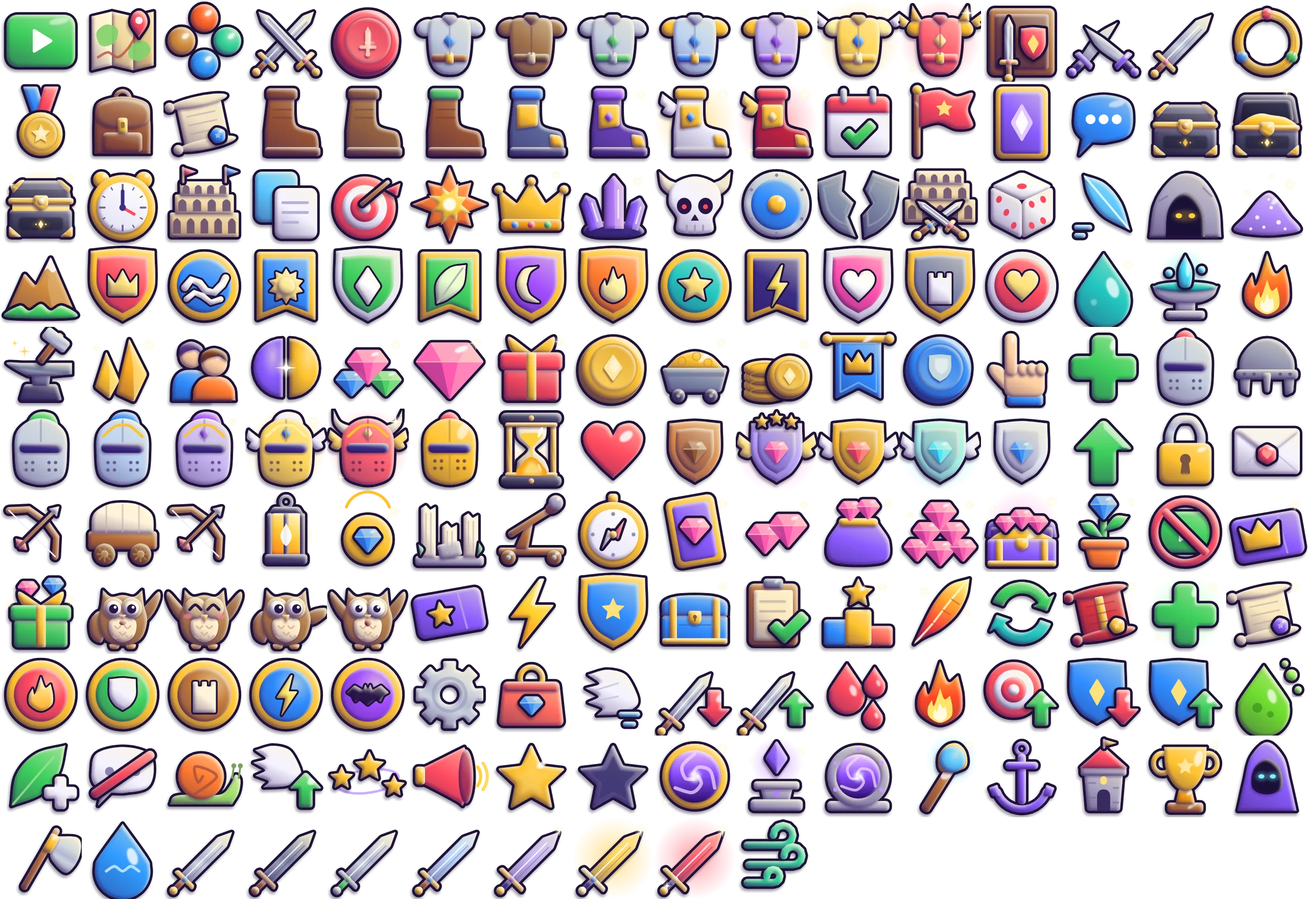
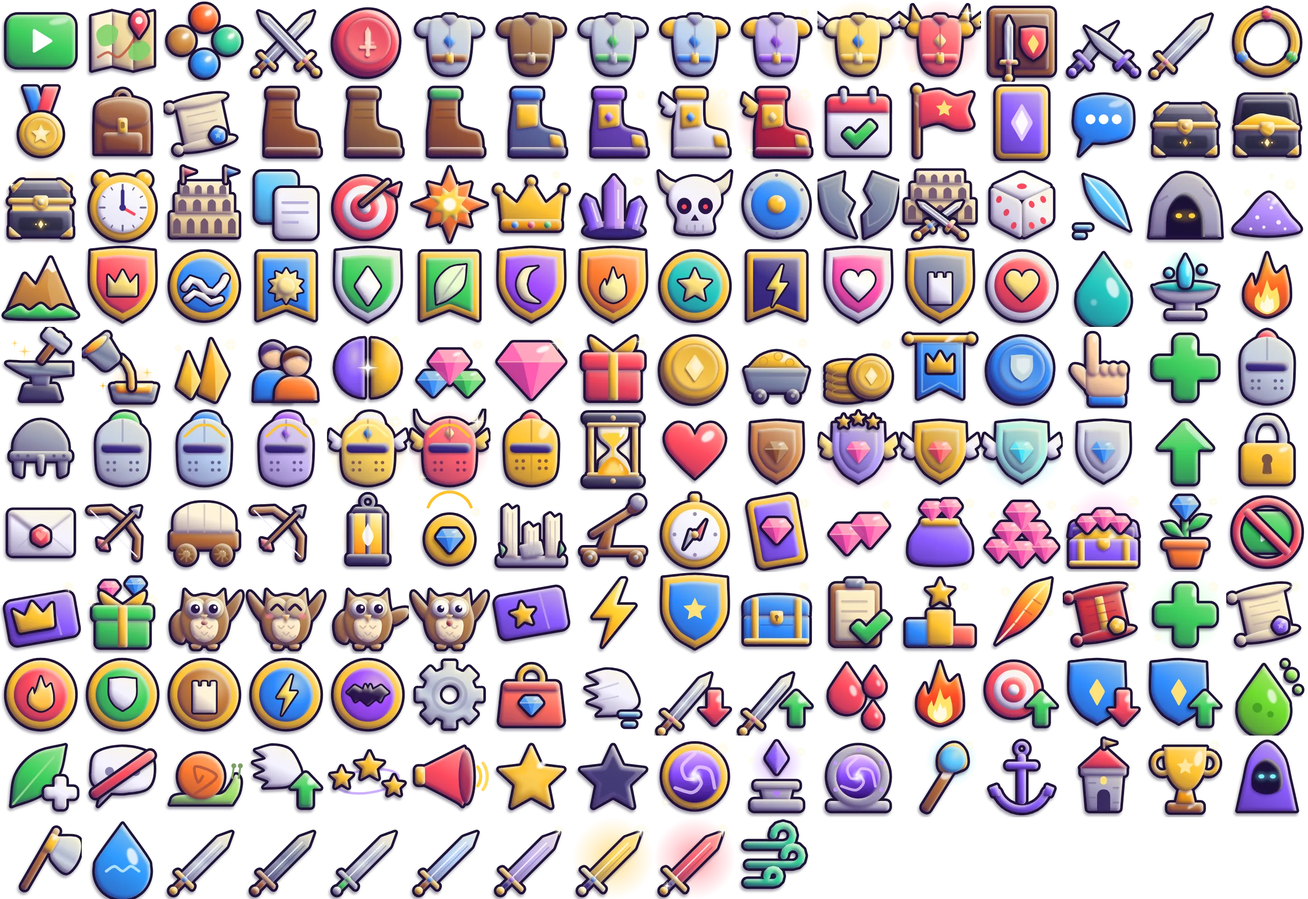
Le recyclage devient la Fonderie : nouveau signe (un creuset verse du métal en fusion dans un moule), « Fondre »
Claude-Session: https://claude.ai/code/session_01StTiAZjvnzYLiVPjaUWZHe

Changed region(s): [[0.0, 0.3438, 1.0, 0.75]]

diff --git a/src/game/icons-meta.ts b/src/game/icons-meta.ts
@@ -4,4 +4,4 @@
 export const ICON_COLS = 16;
 export const ICON_ROWS = 11;
 export const ICON_CELL = 160;
-export const ICON_INDEX: Readonly<Record<string, number>> = {"ad":0,"adventure":1,"allElements":2,"arena":3,"arenaTokens":4,"armor":5,"armor-0":6,"armor-1":7,"armor-2":8,"armor-3":9,"armor-4":10,"armor-5":11,"armory":12,"assassin":13,"atk":14,"avatarFrame":15,"badge":16,"bag":17,"basicScrolls":18,"boots":19,"boots-0":20,"boots-1":21,"boots-2":22,"boots-3":23,"boots-4":24,"boots-5":25,"calendar":26,"campaign":27,"cardBack":28,"chat":29,"chestClosed":30,"chestOpen":31,"chestReady":32,"clock":33,"colisee":34,"copy":35,"crit":36,"critDmg":37,"crown":38,"crystals":39,"dailyBoss":40,"def":41,"defeat":42,"defense":43,"dice":44,"dodge":45,"dungeons":46,"dust":47,"earth":48,"emblem-0":49,"emblem-1":50,"emblem-10":51,"emblem-11":52,"emblem-2":53,"emblem-3":54,"emblem-4":55,"emblem-5":56,"emblem-6":57,"emblem-7":58,"emblem-8":59,"emblem-9":60,"essence":61,"essenceSpring":62,"fire":63,"forge":64,"fragments":65,"friends":66,"fusion":67,"gemPile":68,"gems":69,"gift":70,"gold":71,"goldMine":72,"goldPile":73,"guild":74,"guildCoins":75,"hand":76,"healer":77,"helmet":78,"helmet-0":79,"helmet-1":80,"helmet-2":81,"helmet-3":82,"helmet-4":83,"helmet-5":84,"heroes":85,"hourglass":86,"hp":87,"league-bronze":88,"league-diamond":89,"league-gold":90,"league-platinum":91,"league-silver":92,"levelUp":93,"lock":94,"mail":95,"marksman":96,"mission-escort":97,"mission-hunt":98,"mission-patrol":99,"mission-relic":100,"mission-ruins":101,"mission-siege":102,"missions":103,"offer-card":104,"offer-gems-1":105,"offer-gems-2":106,"offer-gems-3":107,"offer-gems-4":108,"offer-growth":109,"offer-noAds":110,"offer-pass":111,"offer-starter":112,"owl-explain":113,"owl-happy":114,"owl-point":115,"owl-surprised":116,"pass":117,"power":118,"protector":119,"questChest":120,"quests":121,"ranking":122,"rebirth":123,"recycle":124,"redScrolls":125,"revive":126,"scrolls":127,"set-fury":128,"set-guard":129,"set-rampart":130,"set-storm":131,"set-vampire":132,"settings":133,"shop":134,"speed":135,"st-atkDown":136,"st-atkUp":137,"st-bleed":138,"st-burn":139,"st-critUp":140,"st-defDown":141,"st-defUp":142,"st-poison":143,"st-regen":144,"st-silence":145,"st-slow":146,"st-speedUp":147,"st-stun":148,"st-taunt":149,"star":150,"starEmpty":151,"summon":152,"summonAltar":153,"summonPortal":154,"support":155,"tenacity":156,"tower":157,"trophy":158,"unknownHero":159,"warrior":160,"water":161,"weapon":162,"weapon-0":163,"weapon-1":164,"weapon-2":165,"weapon-3":166,"weapon-4":167,"weapon-5":168,"wind":169};
+export const ICON_INDEX: Readonly<Record<string, number>> = {"ad":0,"adventure":1,"allElements":2,"arena":3,"arenaTokens":4,"armor":5,"armor-0":6,"armor-1":7,"armor-2":8,"armor-3":9,"armor-4":10,"armor-5":11,"armory":12,"assassin":13,"atk":14,"avatarFrame":15,"badge":16,"bag":17,"basicScrolls":18,"boots":19,"boots-0":20,"boots-1":21,"boots-2":22,"boots-3":23,"boots-4":24,"boots-5":25,"calendar":26,"campaign":27,"cardBack":28,"chat":29,"chestClosed":30,"chestOpen":31,"chestReady":32,"clock":33,"colisee":34,"copy":35,"crit":36,"critDmg":37,"crown":38,"crystals":39,"dailyBoss":40,"def":41,"defeat":42,"defense":43,"dice":44,"dodge":45,"dungeons":46,"dust":47,"earth":48,"emblem-0":49,"emblem-1":50,"emblem-10":51,"emblem-11":52,"emblem-2":53,"emblem-3":54,"emblem-4":55,"emblem-5":56,"emblem-6":57,"emblem-7":58,"emblem-8":59,"emblem-9":60,"essence":61,"essenceSpring":62,"fire":63,"forge":64,"foundry":65,"fragments":66,"friends":67,"fusion":68,"gemPile":69,"gems":70,"gift":71,"gold":72,"goldMine":73,"goldPile":74,"guild":75,"guildCoins":76,"hand":77,"healer":78,"helmet":79,"helmet-0":80,"helmet-1":81,"helmet-2":82,"helmet-3":83,"helmet-4":84,"helmet-5":85,"heroes":86,"hourglass":87,"hp":88,"league-bronze":89,"league-diamond":90,"league-gold":91,"league-platinum":92,"league-silver":93,"levelUp":94,"lock":95,"mail":96,"marksman":97,"mission-escort":98,"mission-hunt":99,"mission-patrol":100,"mission-relic":101,"mission-ruins":102,"mission-siege":103,"missions":104,"offer-card":105,"offer-gems-1":106,"offer-gems-2":107,"offer-gems-3":108,"offer-gems-4":109,"offer-growth":110,"offer-noAds":111,"offer-pass":112,"offer-starter":113,"owl-explain":114,"owl-happy":115,"owl-point":116,"owl-surprised":117,"pass":118,"power":119,"protector":120,"questChest":121,"quests":122,"ranking":123,"rebirth":124,"redScrolls":125,"revive":126,"scrolls":127,"set-fury":128,"set-guard":129,"set-rampart":130,"set-storm":131,"set-vampire":132,"settings":133,"shop":134,"speed":135,"st-atkDown":136,"st-atkUp":137,"st-bleed":138,"st-burn":139,"st-critUp":140,"st-defDown":141,"st-defUp":142,"st-poison":143,"st-regen":144,"st-silence":145,"st-slow":146,"st-speedUp":147,"st-stun":148,"st-taunt":149,"star":150,"starEmpty":151,"summon":152,"summonAltar":153,"summonPortal":154,"support":155,"tenacity":156,"tower":157,"trophy":158,"unknownHero":159,"warrior":160,"water":161,"weapon":162,"weapon-0":163,"weapon-1":164,"weapon-2":165,"weapon-3":166,"weapon-4":167,"weapon-5":168,"wind":169};

diff --git a/src/game/i18n.ts b/src/game/i18n.ts
@@ -7,10 +7,10 @@ const FR = {
   'edge.fold': 'Replier', 'edge.unfold': 'Déplier',
   'side.quests': 'Quêtes', 'side.shop': 'Boutique', 'side.pass': 'Passe', 'side.ranking': 'Classement', 'side.chat': 'Tchat', 'side.settings': 'Réglages',
   'cur.dust': 'Poussière de forge', 'forge.title': 'Forge', 'fusion.title': 'Fusion', cancel: 'Annuler', 'fusion.choose': 'Choisir', 'reset.none': 'Aucun héros', 'fusion.none': 'Aucun héros disponible',
-  'recycle.confirm': 'Recycler',
-  'bag.title': 'Sac', 'bag.forgeAll': 'Tout forger', 'bag.recycleLow': 'Recycler gris et verts', 'bag.empty': 'Sac vide',
+  'recycle.confirm': 'Fondre', 'bag.foundry': 'Fonderie',
+  'bag.title': 'Sac', 'bag.forgeAll': 'Tout forger', 'bag.recycleLow': 'Fondre gris et verts', 'bag.empty': 'Sac vide',
   'bag.forged': '{n} objets forgés', 'bag.recycled': '+{n} poussière',
-  'item.chapter': 'Chapitre {n}', 'item.forge': 'Forger', 'item.forgeNeed': '{have} / 3 identiques', 'item.recycle': 'Recycler',
+  'item.chapter': 'Chapitre {n}', 'item.forge': 'Forger', 'item.forgeNeed': '{have} / 3 identiques', 'item.recycle': 'Fondre',
   'item.unequip': 'Retirer', 'item.wornBy': 'Porté par {n}', 'item.equip': 'Équiper',
   'slot.upgrade': 'Renforcer', 'slot.level': 'Emplacement +{n}', 'slot.max': 'Renforcement maximum', 'slot.choose': 'Objets du sac',
   'cur.gold': 'Or', 'cur.essence': 'Essence', 'cur.gems': 'Gemmes', 'cur.scrolls': 'Parchemins', 'cur.basicScrolls': 'Parchemins simples', 'cur.redScrolls': 'Parchemins d’événement',
@@ -170,10 +170,10 @@ const EN: Record<Key, string> = {
   'edge.fold': 'Fold', 'edge.unfold': 'Unfold',
   'side.quests': 'Quests', 'side.shop': 'Shop', 'side.pass': 'Pass', 'side.ranking': 'Ranking', 'side.chat': 'Chat', 'side.settings': 'Settings',
   'cur.dust': 'Forge dust', 'forge.title': 'Forge', 'fusion.title': 'Fusion', cancel: 'Cancel', 'fusion.choose': 'Choose', 'reset.none': 'No hero', 'fusion.none': 'No hero available',
-  'recycle.confirm': 'Recycle',
-  'bag.title': 'Bag', 'bag.forgeAll': 'Forge all', 'bag.recycleLow': 'Recycle grey and green', 'bag.empty': 'Bag empty',
+  'recycle.confirm': 'Smelt', 'bag.foundry': 'Foundry',
+  'bag.title': 'Bag', 'bag.forgeAll': 'Forge all', 'bag.recycleLow': 'Smelt grey and green', 'bag.empty': 'Bag empty',
   'bag.forged': '{n} items forged', 'bag.recycled': '+{n} dust',
-  'item.chapter': 'Chapter {n}', 'item.forge': 'Forge', 'item.forgeNeed': '{have} / 3 identical', 'item.recycle': 'Recycle',
+  'item.chapter': 'Chapter {n}', 'item.forge': 'Forge', 'item.forgeNeed': '{have} / 3 identical', 'item.recycle': 'Smelt',
   'item.unequip': 'Remove', 'item.wornBy': 'Worn by {n}', 'item.equip': 'Equip',
   'slot.upgrade': 'Upgrade', 'slot.level': 'Slot +{n}', 'slot.max': 'Max upgrade', 'slot.choose': 'Items in bag',
   'cur.gold': 'Gold', 'cur.essence': 'Essence', 'cur.gems': 'Gems', 'cur.scrolls': 'Scrolls', 'cur.basicScrolls': 'Basic scrolls', 'cur.redScrolls': 'Event scrolls',

diff --git a/src/game/ui/screens/bag.tsx b/src/game/ui/screens/bag.tsx
@@ -75,7 +75,7 @@ export function BagView() {
       ) : (
         <div class="row gap-s">
           <Btn kind="gold" small wide onClick={() => open({ type: 'forge' })}><Icon name="weapon" size={18} /> {t('forge.title')}</Btn>
-          <Btn kind="ghost" small wide onClick={() => setPicking(true)}><Icon name="recycle" size={20} /> {t('item.recycle')}</Btn>
+          <Btn kind="ghost" small wide onClick={() => setPicking(true)}><Icon name="foundry" size={20} /> {t('bag.foundry')}</Btn>
         </div>
       )}
       <div class="chips">

diff --git a/refonte-graphique/ui-moderne/pictos/menus.py b/refonte-graphique/ui-moderne/pictos/menus.py
@@ -559,21 +559,29 @@ def _():
     return ic
 
 
-@picto('recycle')
+@picto('foundry')
 def _():
-    """Recycler : deux flèches courbes qui se suivent en rond."""
+    """La fonderie (27/11, à la place du « recyclage ») : un creuset de fonte penché verse un filet de métal en fusion
+    dans un moule à lingot ; quelques étincelles. Fondre un objet rend de la poussière."""
     ic = Icon()
-    for k, c in [(0, 'green'), (180, 'teal')]:
-        o = ic.obj()
-        a0, a1 = 200 + k, 330 + k
-        outer = arc_pts(50, 50, 38, a0, a1, 14)
-        inner = arc_pts(50, 50, 24, a1, a0, 14)
-        tip_a = math.radians(a1 + 26)
-        tip = (50 + 31 * math.cos(tip_a), 50 + 31 * math.sin(tip_a))
-        o1 = (50 + 46 * math.cos(math.radians(a1)), 50 + 46 * math.sin(math.radians(a1)))
-        i1 = (50 + 16 * math.cos(math.radians(a1)), 50 + 16 * math.sin(math.radians(a1)))
-        pts = outer + [o1, tip, i1] + inner
-        o.part(rpoly(pts, 1.4), c, gloss=False)
+    ic.glow(62, 74, 30, '#ffb02e', 0.45)
+    MOLTEN = [(0, '#fff6b0'), (0.35, '#ffc23a'), (0.75, '#ff7a1e'), (1, '#d8401e')]
+    # le moule (fonte sombre) et le métal qui l'emplit
+    m = ic.obj()
+    m.part(rpoly([(34, 70), (94, 70), (88, 92), (40, 92)], 4), ('metal', 'iron'), gloss=False)
+    m.part(rpoly([(40, 69), (88, 69), (85, 81), (43, 81)], 2), [(0, '#fff6b0'), (0.45, '#ffc23a'), (1, '#ff7a1e')], gloss=False)
+    m.detail(ellipse(70, 72.5, 10, 1.6), fill='#fffbe0', opacity=0.8)
+    # le filet qui coule de la lèvre du creuset jusqu'au moule
+    f = ic.obj()
+    f.part(band([(48, 38), (55, 45), (60, 56), (61, 66), (61, 74)], 7.5), [(0, '#fff3a0'), (0.5, '#ffc23a'), (1, '#ff8a1e')], gloss=False)
+    # le creuset penché (bord épais, métal fondu à la lèvre)
+    c = ic.obj()
+    pot = rpoly([(10, 16), (46, 16), (42, 50), (16, 50)], 7).rot(-38, 30, 34)
+    c.part(pot, ('metal', 'iron'), gloss=False)
+    c.part(rpoly([(7, 12), (49, 12), (49, 20), (7, 20)], 4).rot(-38, 30, 34), dark(col('iron'), 0.25), gloss=False)
+    c.part(ellipse(28, 16.5, 16, 5).rot(-38, 30, 34), [(0, '#fff6b0'), (0.5, '#ffc23a'), (1, '#ff7a1e')], gloss=False)
+    ic.sparkle(80, 56, 7, color='#ffd36b')
+    ic.sparkle(26, 72, 5, color='#ffb02e')
     return ic
 
 
